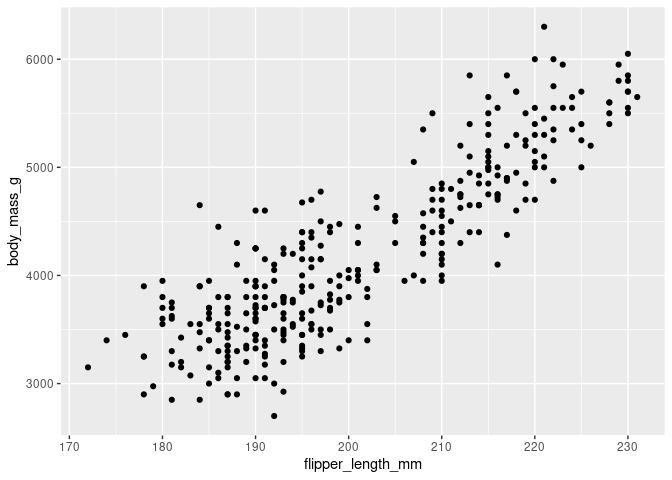
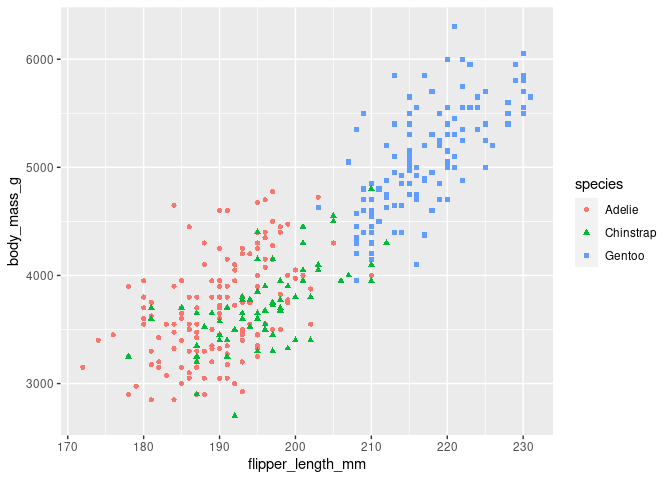
final knit, assignment complete.

diff --git a/activity02-ggplot2-intro.md b/activity02-ggplot2-intro.md
@@ -344,7 +344,7 @@ Recreate your scatterplot in the code chunk below; however, *map*
 `species` to the `color` and `shape` aesthetics.
 
 ``` r
-ggplot(data = penguins, mapping = aes(x = flipper_length_mm, y = body_mass_g)) + geom_point()
+ggplot(data = penguins, mapping = aes(x = flipper_length_mm, y = body_mass_g, color=species, shape=species)) + geom_point()
 ```
 
     ## Warning: Removed 2 rows containing missing values (geom_point).
@@ -353,7 +353,9 @@ ggplot(data = penguins, mapping = aes(x = flipper_length_mm, y = body_mass_g)) +
 
 Describe any patterns that you notice.
 
-**Response**:
+**Response**: All of the species have a relationship with the flipper
+length and the their body mass, for example the Adelie is the smallest
+flipper length and the body mass correlates with that, and so on.
 
 The previous plot looked great except even in this rather small dataset
 (n = 344), there might are a number of points overlapping. In the R code
@@ -362,9 +364,20 @@ aesthetic) of `size` (using some value larger than zero) and `alpha`
 (using some value between 0 and 1) to make your previous plot more
 effective.
 
+``` r
+ggplot(data = penguins, mapping = aes(x = flipper_length_mm, y = body_mass_g, color=species, shape=species)) + geom_point(size=4, alpha= .5)
+```
+
+    ## Warning: Removed 2 rows containing missing values (geom_point).
+
+![](activity02-ggplot2-intro_files/figure-gfm/flipper_vs_mass_with_size_alpha-1.png)<!-- -->
+
 Discuss the decisions you made to help your plot be easier to read.
 
-**Response**:
+**Response**: it increases the size which made it easier to read, and
+the places where alpha is a darker color it shows where the data is most
+centered which gives us a good idea of what the flipper length is and
+the body mass is in relation to the species.
 
 Knit, stage, commit (with a meaningful commit message),and push
 everything in your **Git** pane to your GitHub repo. Go to GitHub and
